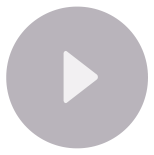
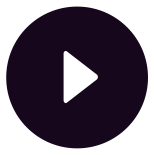
ajustement btn play

diff --git a/src/js/components/Movies/MovieInfo.less b/src/js/components/Movies/MovieInfo.less
@@ -50,7 +50,7 @@
     top: 50%;
     margin-top: -50px;
     margin-left: -50px;
-    opacity: 0.8;
+    opacity: 0.7;
     cursor: pointer;
     .transition(opacity 0.2s linear);
     &:hover {
